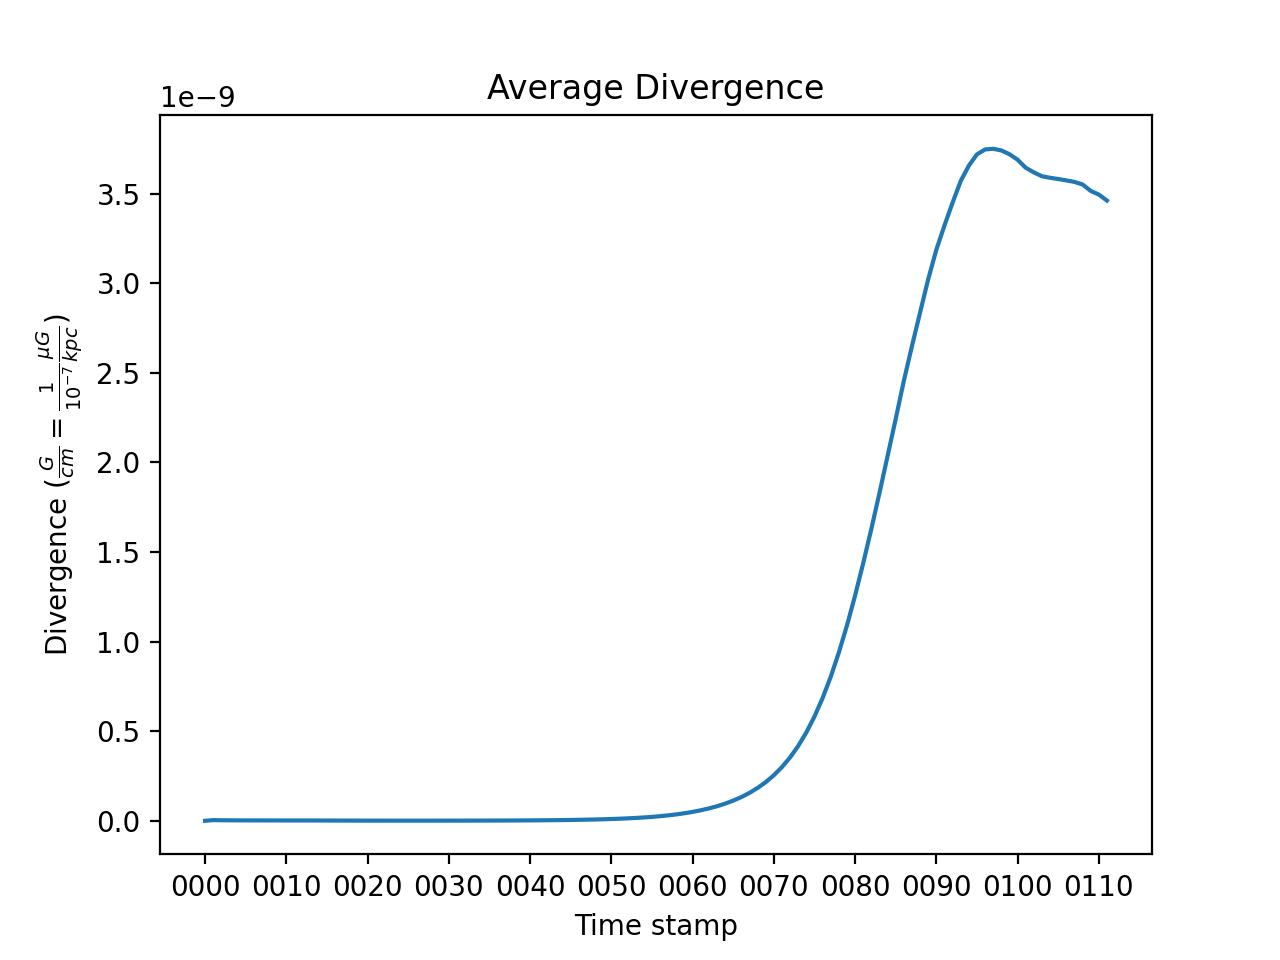
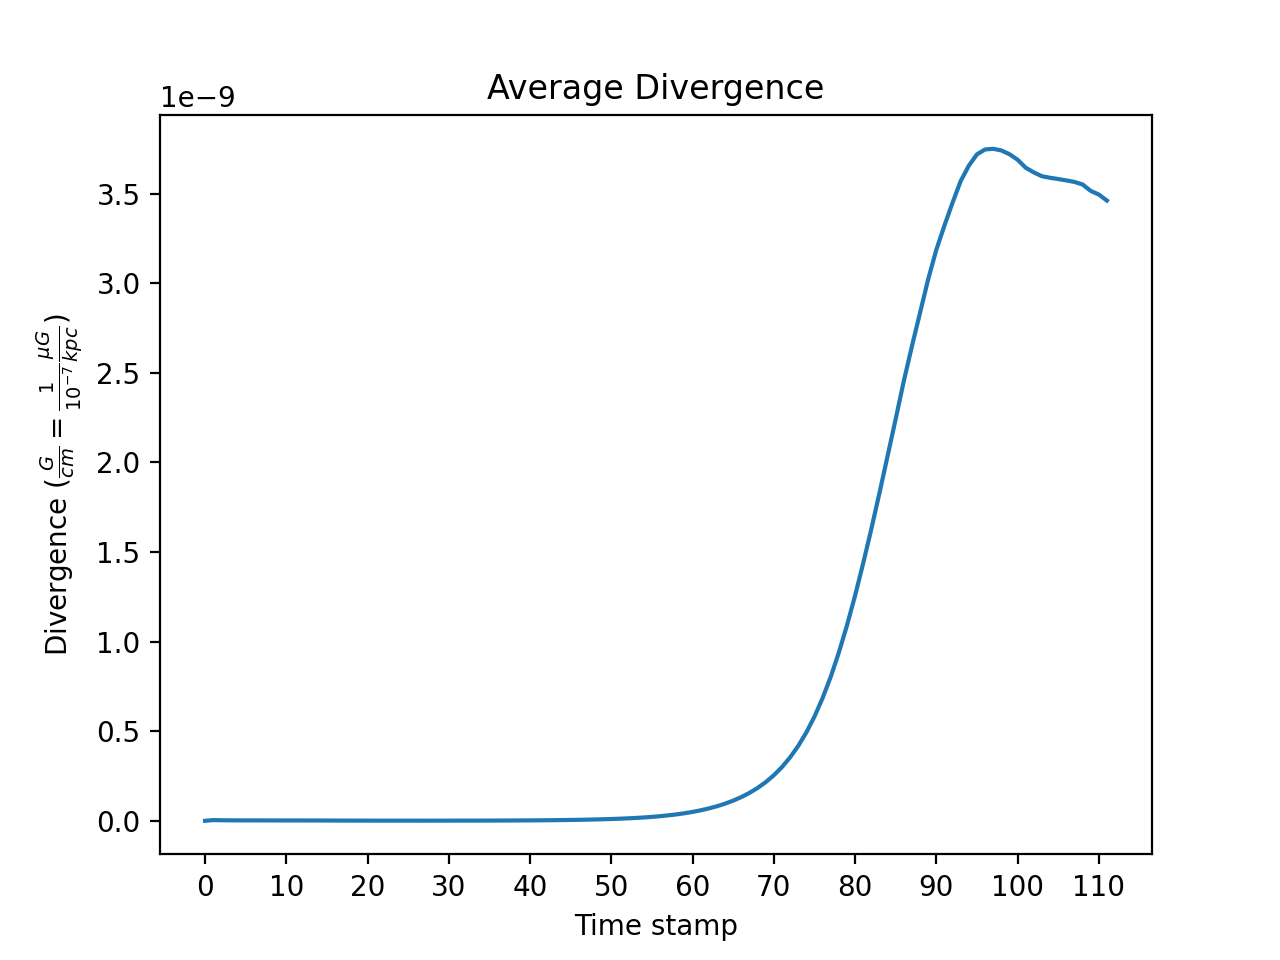
Small tweaks

Changed region(s): [[0.125, 0.9062, 0.9062, 0.9375]]

diff --git a/Curl_Div_OverTime.py b/Curl_Div_OverTime.py
@@ -53,8 +53,10 @@ startTime = time.time()
 timeStamps = [] #list of time stamps
 divAvg = [] #list of average divergence
 divTotal = [] #list of total divergence
+divMax = []
 curlAvg = [] #list of average curl
 curlTotal = [] #list of total curl
+curlMax = []
 
 for fileName in sorted(os.listdir(filedirectory)):
     if(fileName.startswith("parkerCRs")):
@@ -72,11 +74,13 @@ for fileName in sorted(os.listdir(filedirectory)):
         absDiv = abs(div)
         absCurl = abs(curl)
         
-        timeStamps.append(timeStamp)
+        timeStamps.append(int(timeStamp))
         divAvg.append(np.mean(absDiv))
         divTotal.append(np.sum(absDiv))
+        divMax.append(np.max(absDiv))
         curlAvg.append(np.mean(absCurl))
         curlTotal.append(np.sum(absCurl))
+        curlMax.append(np.sum(absCurl))
 beepy.beep(6)
 print()
 print("~~~~~~~~~~~~~~~~~~~~~~~~~~~")
@@ -102,6 +106,22 @@ plt.ylabel(r"Curl ($\frac{G}{cm} = \frac{1}{10^{-7}} \frac{\mu G}{kpc}$)")
 plt.xlabel("Time stamp")
 plt.savefig(pwd + '/Conservation/CurlAvg')
 
+plt.close()
+plt.plot(timeStamps, divMax)
+plt.title("Max Divergence")
+plt.xticks(xticks)
+plt.ylabel(r"Divergence ($\frac{G}{cm} = \frac{1}{10^{-7}} \frac{\mu G}{kpc}$)")
+plt.xlabel("Time stamp")
+plt.savefig(pwd + '/Conservation/DivTotal')
+
+plt.close()
+plt.plot(timeStamps, curlMax)
+plt.title("Max Curl")
+plt.xticks(xticks)
+plt.ylabel(r"Curl ($\frac{G}{cm} = \frac{1}{10^{-7}} \frac{\mu G}{kpc}$)")
+plt.xlabel("Time stamp")
+plt.savefig(pwd + '/Conservation/CurlTotal')
+
 #%% Save as .csv
 with open(pwd + '/Conservation/DivCurl.csv', 'w', newline='') as csvfile:
     fieldnames = ['t', "Avg_Divergence", "Total_Divergence", "Avg_Curl", "Total_Curl"]
@@ -113,5 +133,7 @@ with open(pwd + '/Conservation/DivCurl.csv', 'w', newline='') as csvfile:
         writer.writerow({'t':               timeStamps[i], 
                          "Avg_Divergence":  divAvg[i],
                          "Total_Divergence":divTotal[i],
+                         "Max_Divergence":  divMax[i],
                          "Avg_Curl":        curlAvg[i],
-                         "Total_Curl":      curlTotal[i]})
+                         "Total_Curl":      curlTotal[i],
+                         "Max_Curl":        curlMax[i]})
